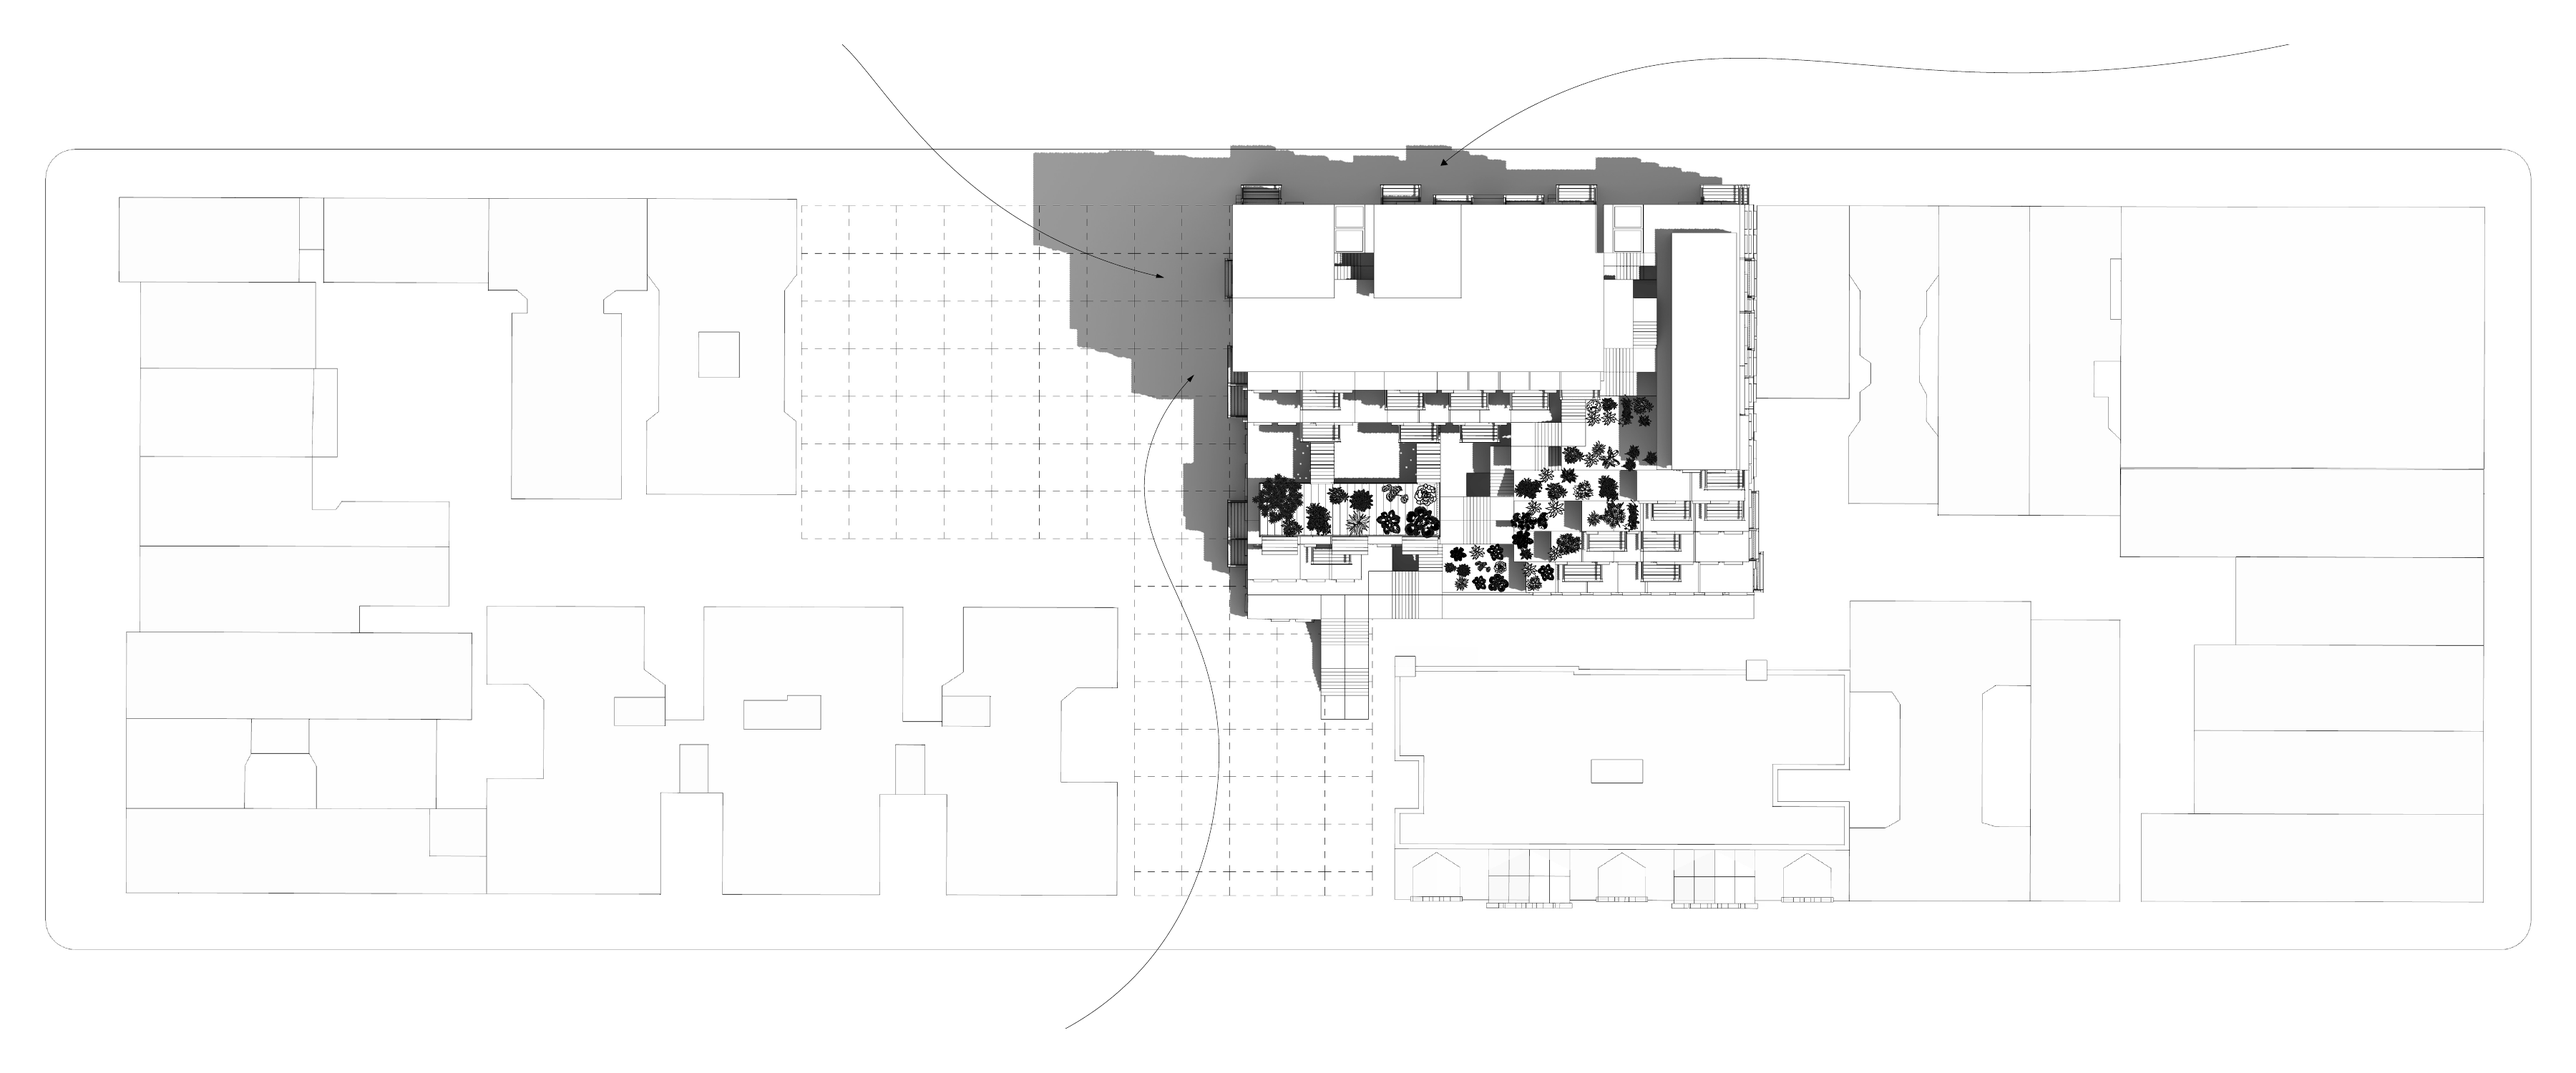
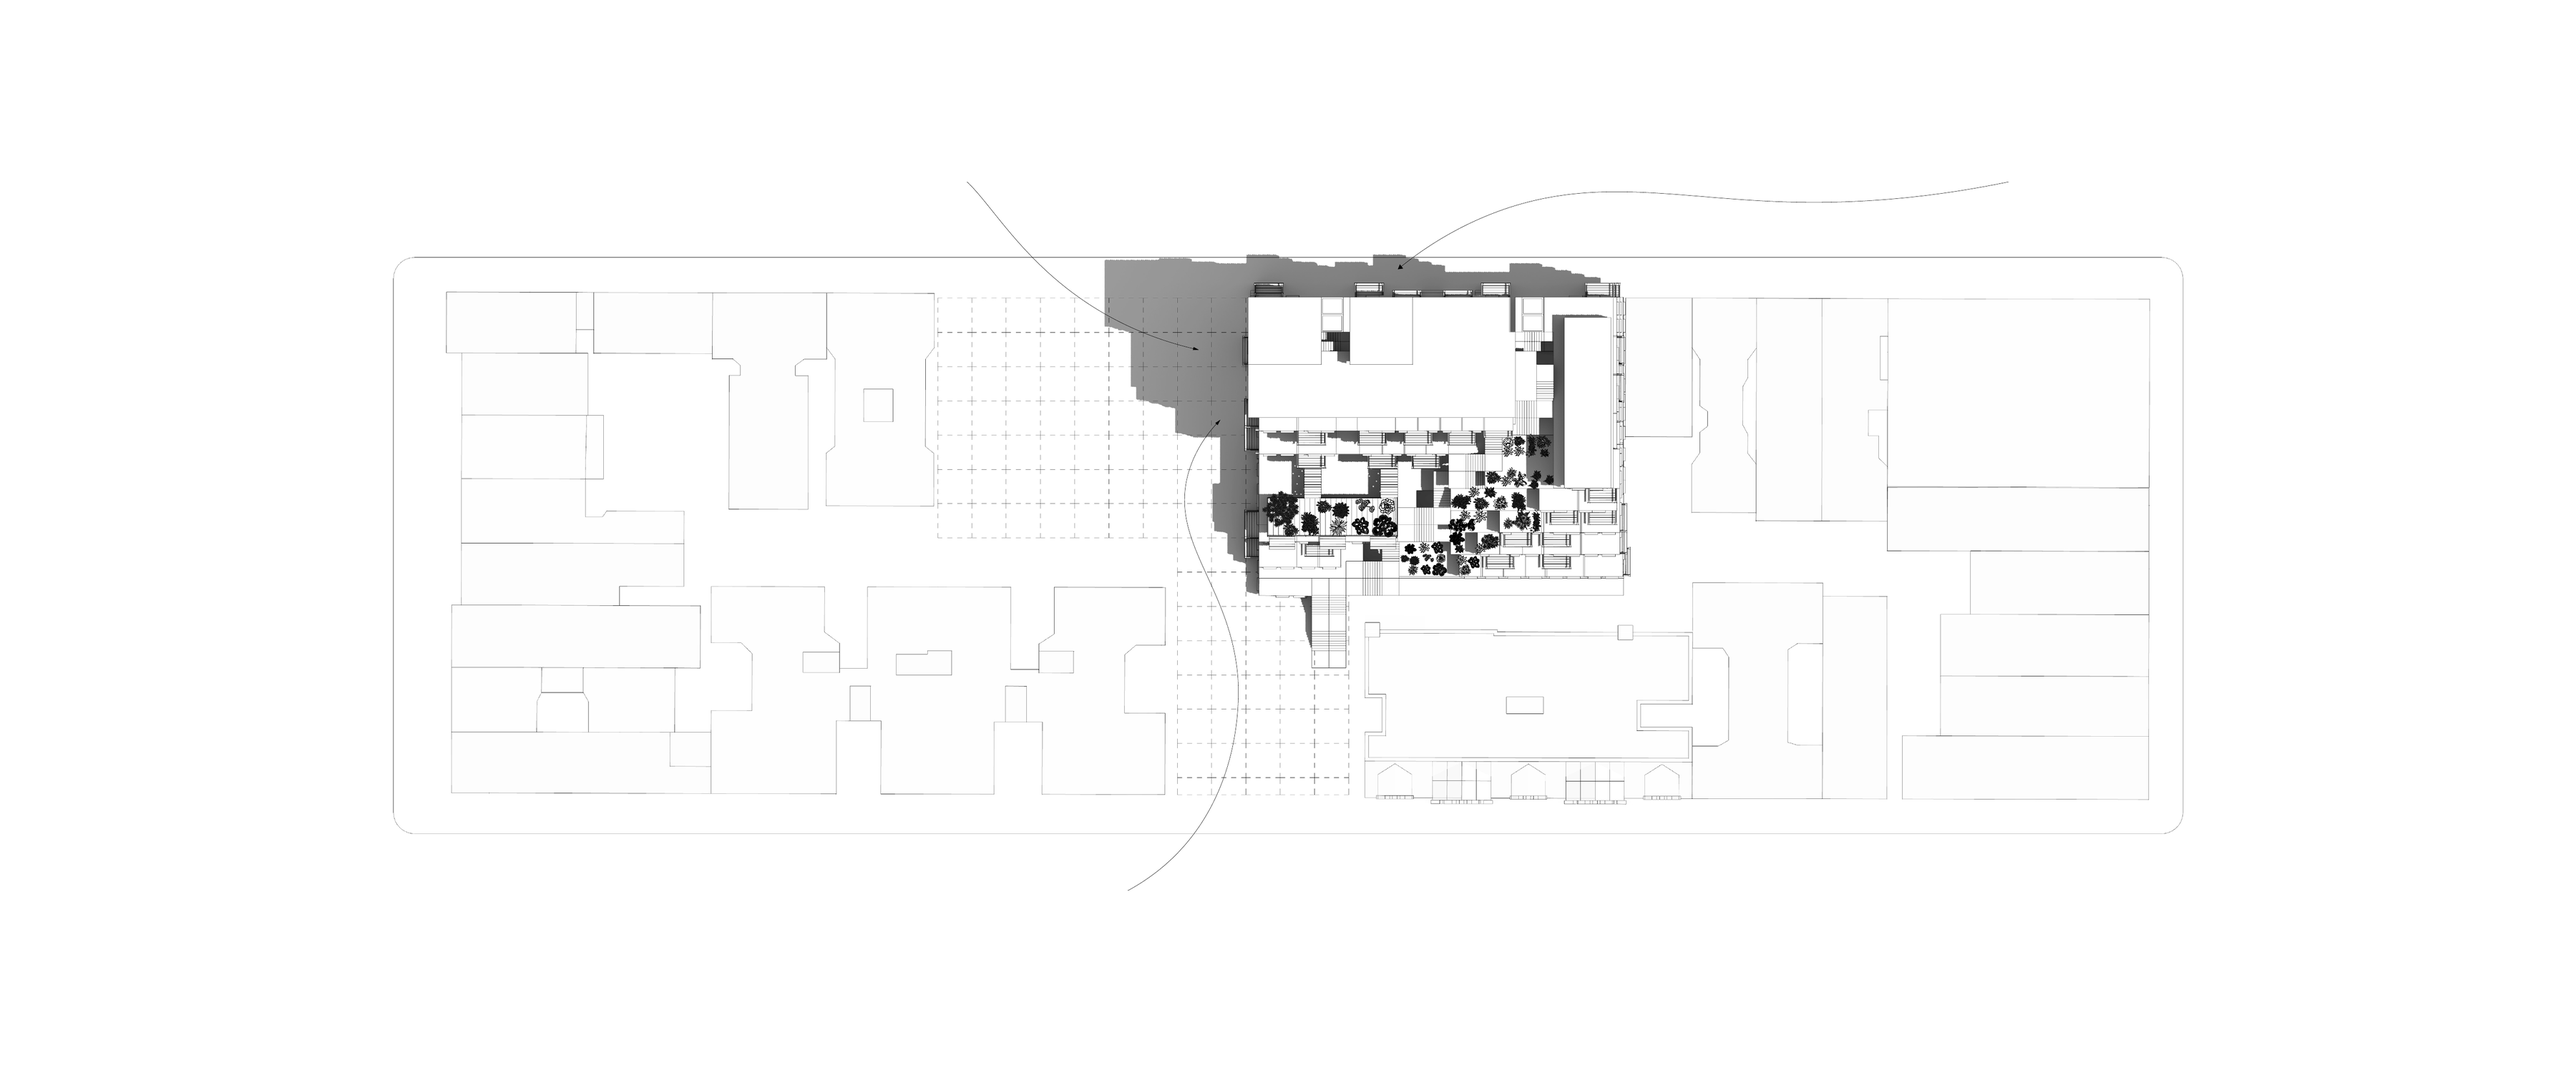
East 5th: second model photo before the aerial render, site plan smaller
Claude-Session: https://claude.ai/code/session_012xVSFeyKoQyZUFPAaCyKB9

diff --git a/public/projects.js b/public/projects.js
@@ -100,15 +100,16 @@ window.PROJECTS = {
     grid: [
       {src: "img/social-sanctuary/render-stairs.jpg", caption: "Stairs"},
         // the site plan from his sheet, words and the three massing iterations taken off (his call, 2026-11-06; the
-        // underspecificity diagram page was dropped)
+        // underspecificity diagram page was dropped); set smaller inside a white margin (his ask)
       {src: "img/social-sanctuary/site-plan.png", drawing: true, caption: "Site plan"},
       {src: "img/social-sanctuary/plan-first-floor.png", drawing: true, caption: "First floor plan"},
-      {src: "img/social-sanctuary/model-2.jpg", caption: "Physical model"},
       {src: "img/social-sanctuary/plan-fourth-floor.png", drawing: true, caption: "Fourth floor plan"},
       {src: "img/social-sanctuary/plan-typical-floor.png", drawing: true, caption: "Typical floor plan"},
       {src: "img/social-sanctuary/model-1.jpg", caption: "Physical model"},
       {src: "img/social-sanctuary/section-ns.png", drawing: true, caption: "Section north-south"},
       {src: "img/social-sanctuary/section-ew.png", drawing: true, caption: "Section east-west"},
+        // the second model photo just before the aerial render (his call, 2026-11-06)
+      {src: "img/social-sanctuary/model-2.jpg", caption: "Physical model"},
       {src: "img/social-sanctuary/render-aerial.jpg", caption: "Aerial view"}
     ]
   },
